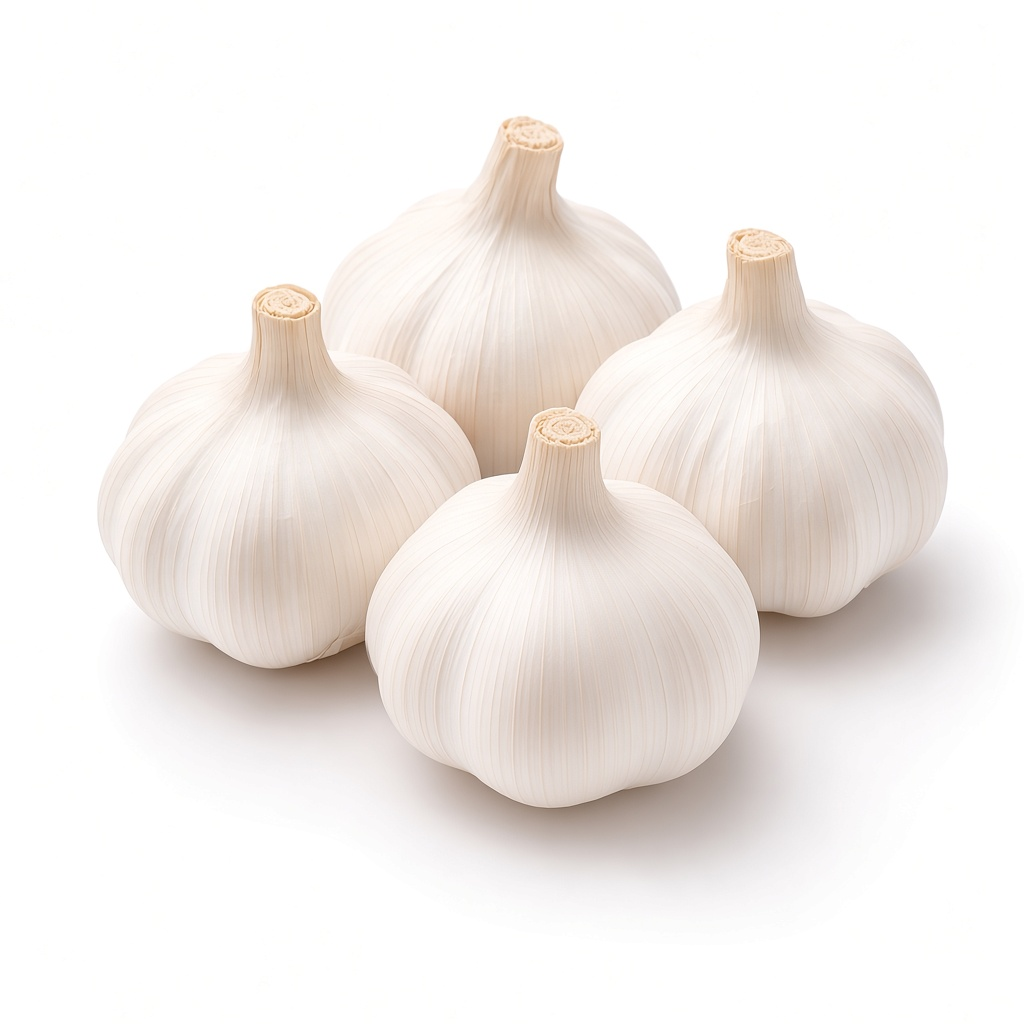
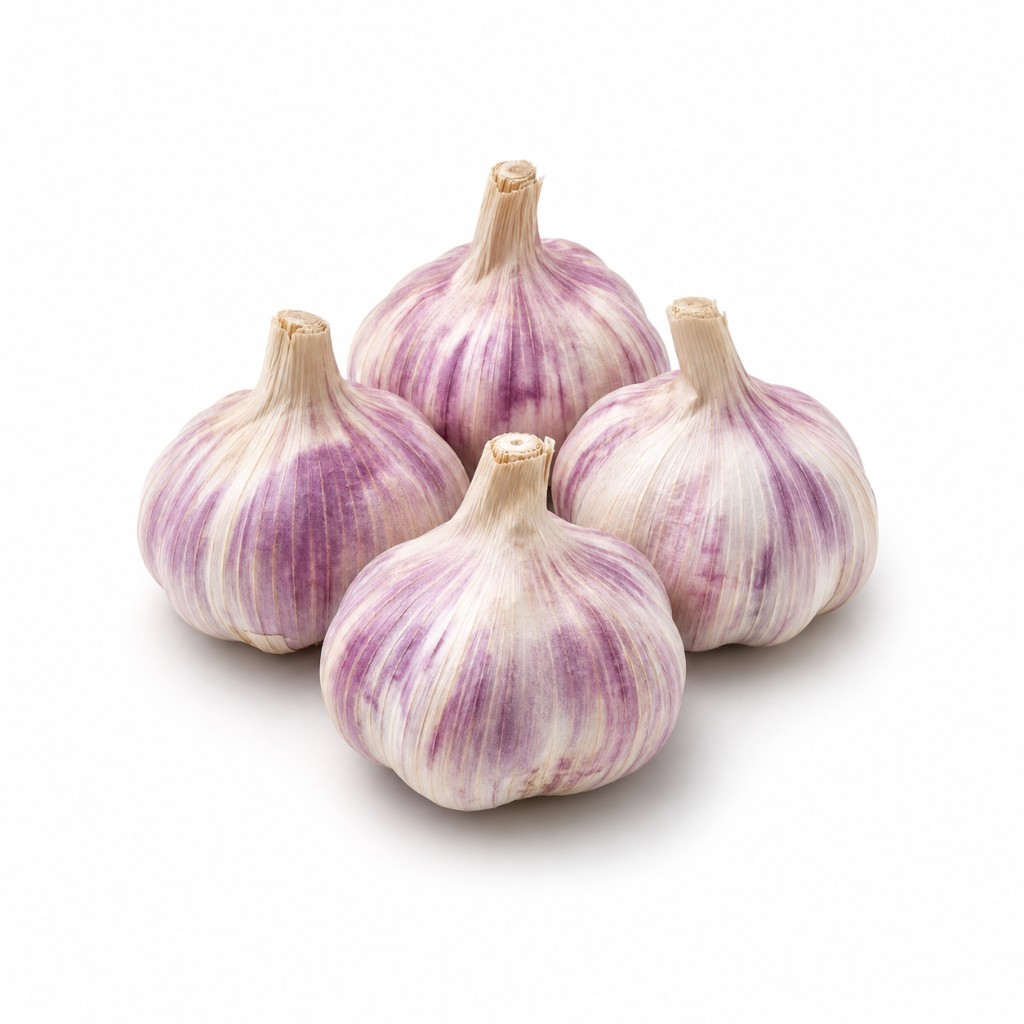
Ajusta Financeiro, Pix, home e a foto do alho.
Pills com a cor do produto, lista de amanhã menos apertada, dialog Pix sem overflow e asset de alho roxo.

Changed region(s): [[0.0938, 0.0938, 0.9688, 0.875]]

diff --git a/mobile/lib/features/workspace/presentation/pages/receipt_page.dart b/mobile/lib/features/workspace/presentation/pages/receipt_page.dart
@@ -963,6 +963,7 @@ class _PixWhatsAppDialog extends StatelessWidget {
 
   @override
   Widget build(BuildContext context) {
+    final maxHeight = MediaQuery.sizeOf(context).height * 0.82;
     return Dialog(
       backgroundColor: Colors.transparent,
       insetPadding: const EdgeInsets.symmetric(horizontal: 22, vertical: 28),
@@ -970,122 +971,120 @@ class _PixWhatsAppDialog extends StatelessWidget {
         color: Colors.white,
         borderRadius: BorderRadius.circular(28),
         clipBehavior: Clip.antiAlias,
-        child: Padding(
-          padding: const EdgeInsets.fromLTRB(24, 28, 24, 20),
-          child: Column(
-            mainAxisSize: MainAxisSize.min,
-            crossAxisAlignment: CrossAxisAlignment.stretch,
-            children: [
-              const Text(
-                'Enviar chave Pix',
-                textAlign: TextAlign.center,
-                style: TextStyle(
-                  fontSize: 24,
-                  fontWeight: FontWeight.w800,
-                  color: pouInk,
-                  letterSpacing: -0.4,
-                ),
-              ),
-              const SizedBox(height: 10),
-              const Text(
-                'Abre o WhatsApp da cliente com a mensagem pronta.',
-                textAlign: TextAlign.center,
-                style: TextStyle(
-                  fontSize: 16,
-                  fontWeight: FontWeight.w500,
-                  color: _receiptMuted,
-                  height: 1.4,
-                ),
-              ),
-              const SizedBox(height: 22),
-              Container(
-                padding: const EdgeInsets.fromLTRB(16, 18, 16, 16),
-                decoration: BoxDecoration(
-                  color: _receiptField,
-                  borderRadius: BorderRadius.circular(18),
-                ),
-                child: Column(
-                  crossAxisAlignment: CrossAxisAlignment.start,
-                  children: [
-                    Text(
-                      amountLabel,
-                      style: const TextStyle(
-                        fontSize: 26,
-                        fontWeight: FontWeight.w800,
-                        color: pouInk,
-                        letterSpacing: -0.5,
-                      ),
-                    ),
-                    const SizedBox(height: 12),
-                    Text(
-                      pixKey,
-                      style: const TextStyle(
-                        fontSize: 18,
-                        fontWeight: FontWeight.w700,
-                        color: _receiptGreen,
-                      ),
-                    ),
-                    const SizedBox(height: 4),
-                    Text(
-                      receiverName,
-                      style: const TextStyle(
-                        fontSize: 15,
-                        fontWeight: FontWeight.w500,
-                        color: _receiptMuted,
-                      ),
-                    ),
-                  ],
-                ),
-              ),
-              const SizedBox(height: 18),
-              ConstrainedBox(
-                constraints: const BoxConstraints(minHeight: 140, maxHeight: 180),
-                child: SingleChildScrollView(
-                  child: Text(
-                    message,
-                    style: const TextStyle(
-                      fontSize: 15,
-                      height: 1.45,
-                      fontWeight: FontWeight.w500,
-                      color: Color(0xFF4B5563),
-                    ),
+        child: ConstrainedBox(
+          constraints: BoxConstraints(maxHeight: maxHeight),
+          child: SingleChildScrollView(
+            padding: const EdgeInsets.fromLTRB(24, 28, 24, 20),
+            child: Column(
+              mainAxisSize: MainAxisSize.min,
+              crossAxisAlignment: CrossAxisAlignment.stretch,
+              children: [
+                const Text(
+                  'Enviar chave Pix',
+                  textAlign: TextAlign.center,
+                  style: TextStyle(
+                    fontSize: 24,
+                    fontWeight: FontWeight.w800,
+                    color: pouInk,
+                    letterSpacing: -0.4,
                   ),
                 ),
-              ),
-              const SizedBox(height: 24),
-              SizedBox(
-                height: 54,
-                child: FilledButton(
-                  key: const Key('receipt_pix_whatsapp_send'),
-                  onPressed: () => Navigator.of(context).pop(true),
-                  style: FilledButton.styleFrom(
-                    backgroundColor: pouBrand,
-                    foregroundColor: Colors.white,
-                    elevation: 0,
-                    shape: const StadiumBorder(),
-                    textStyle: const TextStyle(
-                      fontSize: 17,
-                      fontWeight: FontWeight.w700,
-                    ),
-                  ),
-                  child: const Text('Enviar no WhatsApp'),
-                ),
-              ),
-              const SizedBox(height: 4),
-              TextButton(
-                key: const Key('receipt_pix_whatsapp_skip'),
-                onPressed: () => Navigator.of(context).pop(false),
-                style: TextButton.styleFrom(
-                  foregroundColor: const Color(0xFF6B7280),
-                  minimumSize: const Size.fromHeight(48),
-                  textStyle: const TextStyle(
+                const SizedBox(height: 10),
+                const Text(
+                  'Abre o WhatsApp da cliente com a mensagem pronta.',
+                  textAlign: TextAlign.center,
+                  style: TextStyle(
                     fontSize: 16,
-                    fontWeight: FontWeight.w600,
+                    fontWeight: FontWeight.w500,
+                    color: _receiptMuted,
+                    height: 1.4,
                   ),
                 ),
-                child: const Text('Agora não'),
-              ),
-            ],
+                const SizedBox(height: 18),
+                Container(
+                  padding: const EdgeInsets.fromLTRB(16, 18, 16, 16),
+                  decoration: BoxDecoration(
+                    color: _receiptField,
+                    borderRadius: BorderRadius.circular(18),
+                  ),
+                  child: Column(
+                    crossAxisAlignment: CrossAxisAlignment.start,
+                    children: [
+                      Text(
+                        amountLabel,
+                        style: const TextStyle(
+                          fontSize: 26,
+                          fontWeight: FontWeight.w800,
+                          color: pouInk,
+                          letterSpacing: -0.5,
+                        ),
+                      ),
+                      const SizedBox(height: 12),
+                      Text(
+                        pixKey,
+                        style: const TextStyle(
+                          fontSize: 18,
+                          fontWeight: FontWeight.w700,
+                          color: _receiptGreen,
+                        ),
+                      ),
+                      const SizedBox(height: 4),
+                      Text(
+                        receiverName,
+                        style: const TextStyle(
+                          fontSize: 15,
+                          fontWeight: FontWeight.w500,
+                          color: _receiptMuted,
+                        ),
+                      ),
+                    ],
+                  ),
+                ),
+                const SizedBox(height: 18),
+                Text(
+                  message,
+                  style: const TextStyle(
+                    fontSize: 15,
+                    height: 1.45,
+                    fontWeight: FontWeight.w500,
+                    color: Color(0xFF4B5563),
+                  ),
+                ),
+                const SizedBox(height: 20),
+                SizedBox(
+                  height: 54,
+                  child: FilledButton(
+                    key: const Key('receipt_pix_whatsapp_send'),
+                    onPressed: () => Navigator.of(context).pop(true),
+                    style: FilledButton.styleFrom(
+                      backgroundColor: pouBrand,
+                      foregroundColor: Colors.white,
+                      elevation: 0,
+                      shape: const StadiumBorder(),
+                      textStyle: const TextStyle(
+                        fontSize: 17,
+                        fontWeight: FontWeight.w700,
+                      ),
+                    ),
+                    child: const Text('Enviar no WhatsApp'),
+                  ),
+                ),
+                const SizedBox(height: 4),
+                TextButton(
+                  key: const Key('receipt_pix_whatsapp_skip'),
+                  onPressed: () => Navigator.of(context).pop(false),
+                  style: TextButton.styleFrom(
+                    foregroundColor: const Color(0xFF6B7280),
+                    minimumSize: const Size.fromHeight(48),
+                    textStyle: const TextStyle(
+                      fontSize: 16,
+                      fontWeight: FontWeight.w600,
+                    ),
+                  ),
+                  child: const Text('Agora não'),
+                ),
+              ],
+            ),
           ),
         ),
       ),

diff --git a/mobile/lib/features/workspace/presentation/pages/finance_page.dart b/mobile/lib/features/workspace/presentation/pages/finance_page.dart
@@ -193,11 +193,11 @@ class _FinancePageState extends State<FinancePage> {
                 final diameter = constraints.maxWidth * 0.68;
                 final ringHeight = diameter + 72;
                 final topInset = MediaQuery.paddingOf(context).top;
-                final headerExtent = topInset + ringHeight + 40;
+                final headerExtent = topInset + ringHeight + 28;
                 final minSheet =
                     ((constraints.maxHeight - headerExtent) /
                             constraints.maxHeight)
-                        .clamp(0.38, 0.52);
+                        .clamp(0.40, 0.54);
                 final maxSheet =
                     ((constraints.maxHeight - topInset - 12) /
                             constraints.maxHeight)
@@ -364,7 +364,7 @@ List<_ProductRank> _demoMerchandise(_Span span) {
   const base = <_ProductRank>[
     _ProductRank(name: 'Alho', cents: 284000),
     _ProductRank(name: 'Batata', cents: 196500),
-    _ProductRank(name: 'Manga', cents: 142000),
+    _ProductRank(name: 'Alface americana', cents: 142000),
     _ProductRank(name: 'Cebola', cents: 87500),
     _ProductRank(name: 'Alface crespa', cents: 72400),
     _ProductRank(name: 'Abacate', cents: 51200),
@@ -614,6 +614,7 @@ class _Ring extends StatelessWidget {
                   child: _PercentPill(
                     label: draw.arc.label,
                     asset: draw.arc.asset,
+                    tint: draw.arc.color,
                     neutral: draw.arc.neutral,
                   ),
                 ),
@@ -721,24 +722,31 @@ class _RingPainter extends CustomPainter {
   bool shouldRepaint(covariant _RingPainter oldDelegate) => true;
 }
 
+Color _pillFill(Color tint) {
+  return Color.lerp(Colors.white, tint, 0.22) ?? tint.withValues(alpha: 0.18);
+}
+
 class _PercentPill extends StatelessWidget {
   const _PercentPill({
     required this.label,
     this.asset,
+    this.tint,
     this.neutral = false,
   });
 
   final String label;
   final String? asset;
+  final Color? tint;
   final bool neutral;
 
   @override
   Widget build(BuildContext context) {
+    final fill = neutral || tint == null
+        ? const Color(0xFFF1F1F4)
+        : _pillFill(tint!);
     return DecoratedBox(
       decoration: BoxDecoration(
-        color: neutral
-            ? const Color(0xFFF1F1F4)
-            : const Color(0xFFF3EADF),
+        color: fill,
         borderRadius: const BorderRadius.all(Radius.circular(14)),
       ),
       child: Padding(
@@ -976,7 +984,7 @@ class _Sheet extends StatelessWidget {
       clipBehavior: Clip.antiAlias,
       child: ListView(
         controller: scrollController,
-        padding: const EdgeInsets.fromLTRB(24, 10, 24, 28),
+        padding: const EdgeInsets.fromLTRB(24, 10, 24, 40),
         children: [
           const Center(
             child: DecoratedBox(
@@ -1287,6 +1295,7 @@ class _CategoryCard extends StatelessWidget {
                   bottom: 0,
                   child: _PercentPill(
                     label: percent,
+                    tint: category.color,
                     neutral: category.placeholder,
                   ),
                 ),

diff --git a/mobile/lib/features/workspace/presentation/widgets/street_board_view.dart b/mobile/lib/features/workspace/presentation/widgets/street_board_view.dart
@@ -655,17 +655,23 @@ class _TomorrowDuesSection extends StatelessWidget {
         else
           _DuesWhiteCard(
             child: Padding(
-              padding: const EdgeInsets.fromLTRB(18, 8, 18, 8),
+              padding: const EdgeInsets.fromLTRB(18, 16, 18, 16),
               child: Column(
                 children: [
                   for (var index = 0; index < dues.length; index++) ...[
-                    if (index > 0)
+                    if (index > 0) ...[
+                      const SizedBox(height: 14),
                       const Divider(height: 1, color: Color(0xFFE9E8EB)),
-                    _DueCustomerRow(
-                      due: dues[index],
-                      hidden: valuesHidden,
-                      noteLabel: '1 nota em aberto',
-                      onTap: () => onOpenCustomer(dues[index].customerId),
+                      const SizedBox(height: 14),
+                    ],
+                    Padding(
+                      padding: const EdgeInsets.symmetric(vertical: 4),
+                      child: _DueCustomerRow(
+                        due: dues[index],
+                        hidden: valuesHidden,
+                        noteLabel: '1 nota em aberto',
+                        onTap: () => onOpenCustomer(dues[index].customerId),
+                      ),
                     ),
                   ],
                 ],
